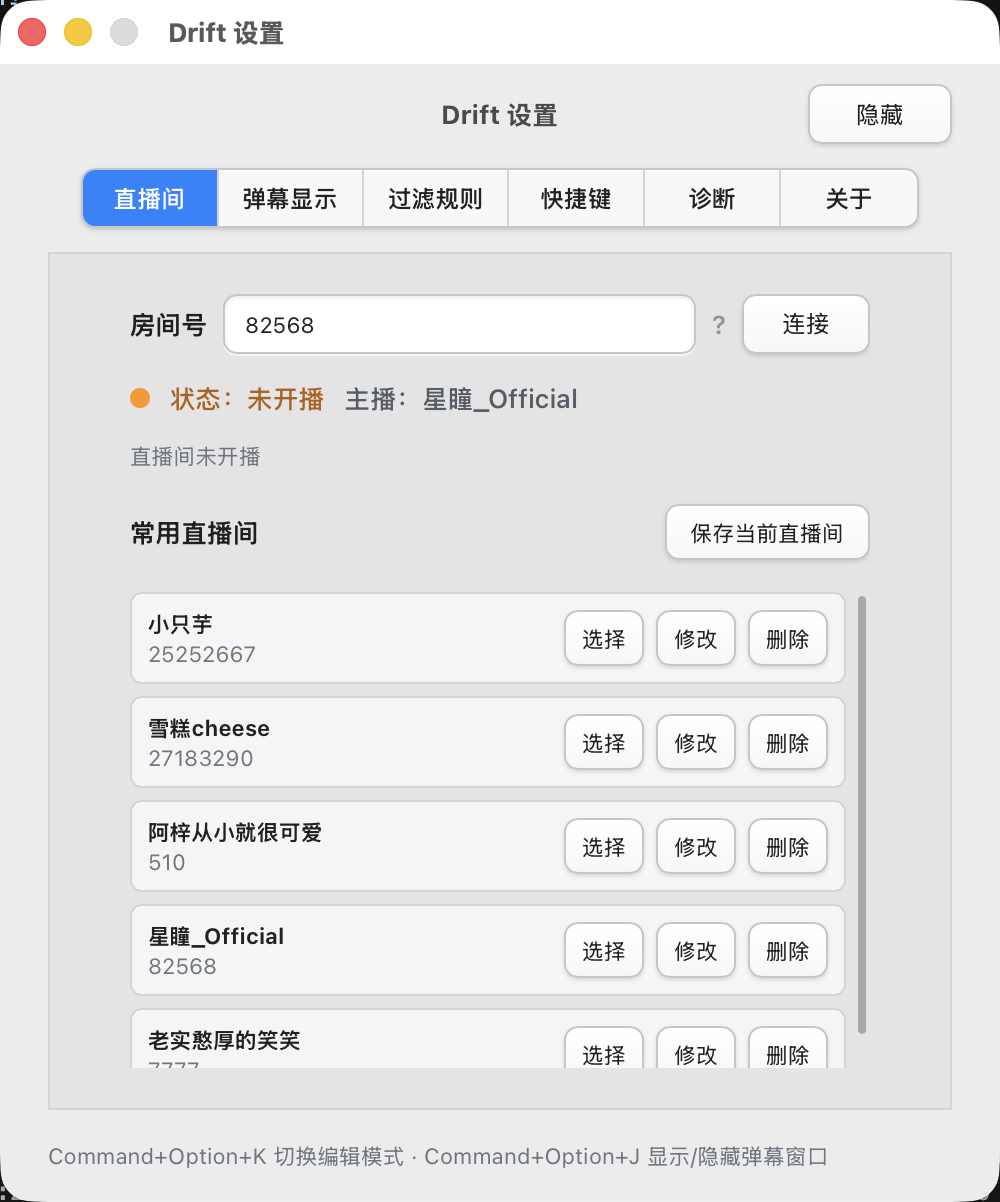
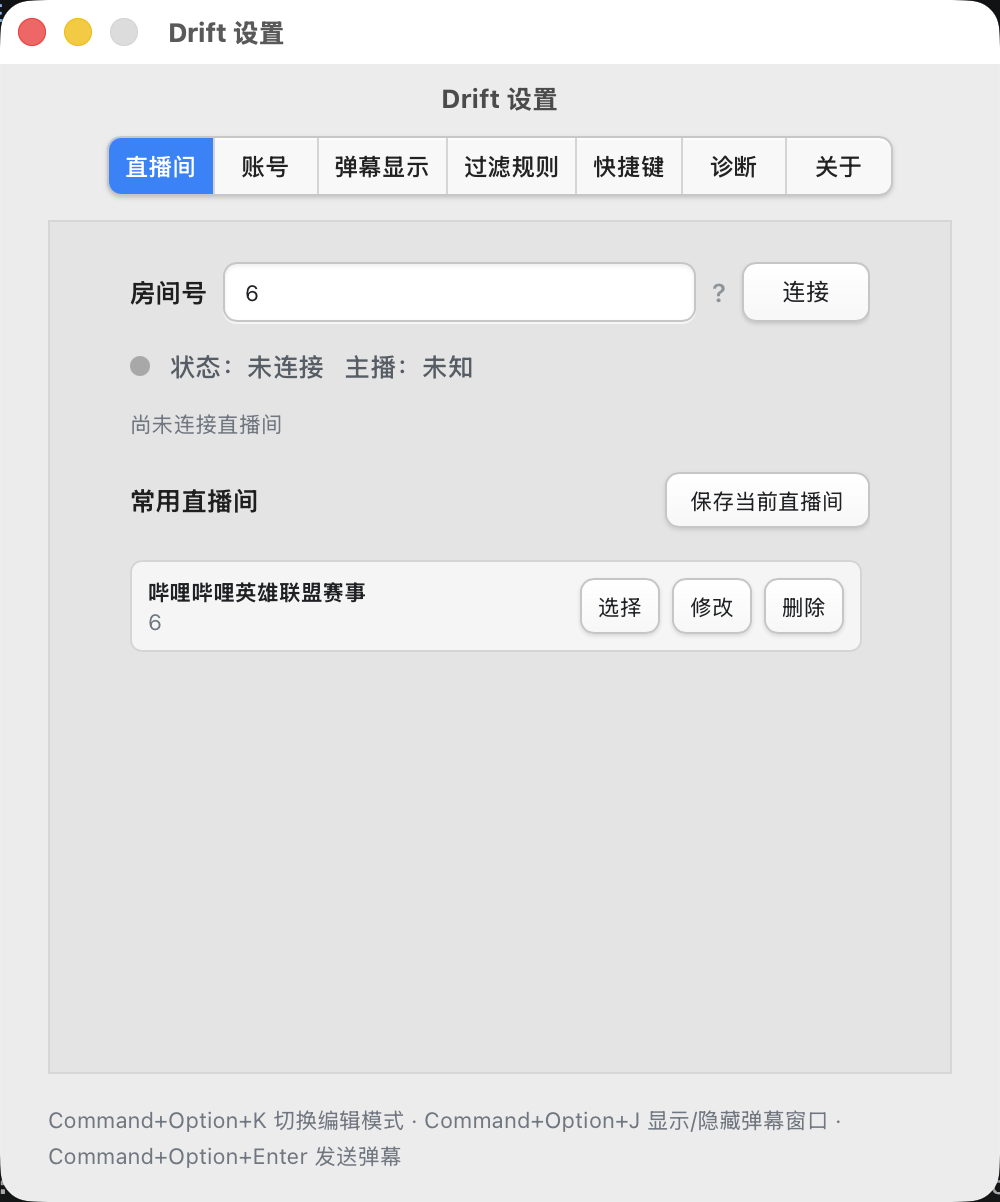
docs: polish public readme

diff --git a/README.md b/README.md
@@ -1,23 +1,22 @@
 # Drift
 
-Drift 是一款桌面顶层透明弹幕悬浮工具。它可以连接 B 站直播间，把实时弹幕显示在桌面透明窗口上，适合边听直播、边学习、边工作时使用。
+Drift 是一款桌面顶层透明弹幕悬浮工具。它可以连接 B 站直播间，把实时弹幕显示在桌面透明窗口上，适合边听直播，边学习、工作或打游戏时使用。
 
-这个项目的目标很简单：不播放直播视频，不占用屏幕主要空间，只让弹幕像桌面的一部分轻轻飘过。
+> 小提示：独占全屏游戏通常会遮住桌面悬浮窗口。如果想在游戏时显示弹幕，建议把游戏显示模式调整为“无边框窗口”或“窗口化全屏”。
 
 ## 功能特性
 
-- B 站直播间弹幕实时接入，支持短房间号转换。
+- B 站直播间弹幕实时接入。
 - 透明、置顶、无边框弹幕窗口。
 - 鼠标穿透显示模式，不影响操作桌面和其他应用。
-- 编辑模式下可拖动和调整弹幕区域，窗口位置和尺寸会自动保存。
+- 编辑模式下可拖动和调整弹幕区域。
 - 支持普通弹幕、普通送礼消息和上舰消息基础显示。
 - 支持弹幕显示开关、字号、透明度、速度、密度和用户名显示设置。
-- 支持高级过滤规则，可按文本、用户名、消息类型、礼物名和上舰等级隐藏或高亮消息。
+- 支持高级过滤规则，可按文本、用户名、消息类型、礼物名隐藏或高亮消息。
 - 支持弹幕历史抽屉，可搜索和复制最近弹幕。
 - 支持 B 站扫码登录，登录凭据保存在系统安全存储中。
 - 登录并连接直播间后，可通过快捷键打开发送窗口发送普通文本弹幕。
-- 支持 API 诊断、日志目录打开和诊断报告导出，便于反馈问题。
-- 支持启动后检查 GitHub Releases 更新。
+- 支持 API 诊断、日志目录打开和诊断报告导出，便于排查连接、登录和发送问题。
 
 ## 界面预览
 
@@ -108,12 +107,12 @@ Windows / Linux: Control+Alt+Enter
 - Drift 只支持普通文本弹幕发送。
 - 单条弹幕长度限制为 60 个 Unicode 字符。
 - 本地会限制连续发送频率，避免误触造成高频发送。
-- 发送窗口只把弹幕文本交给后端；Cookie、CSRF 和房间状态都由 Rust 后端处理。
+- 发送窗口只把弹幕文本交给后端；Cookie、CSRF 和当前直播间状态都由 Rust 后端处理。
 - 发送成功后不会本地伪造弹幕，是否显示以 B 站 WebSocket 实际回显为准。
 
 ## macOS 钥匙串密码提示说明
 
-在 macOS 上使用扫码登录、校验登录状态、发送弹幕或退出登录时，系统可能会弹出“Drift 想要访问钥匙串”之类的密码窗口。这是 macOS Keychain 的系统安全机制，不是 Drift 自己绘制的密码框。
+在 macOS 上使用扫码登录、校验登录状态、发送弹幕或退出登录时，系统可能会弹出“Drift 想要访问钥匙串”之类的密码窗口。这是 macOS Keychain 的系统安全机制，不是 Drift 自己绘制的密码框，也不是在索要你的 B 站密码。
 
 Drift 使用钥匙串保存 B 站登录后得到的 Cookie 信息，目的是避免把敏感登录凭据明文写入配置文件。保存项使用：
 